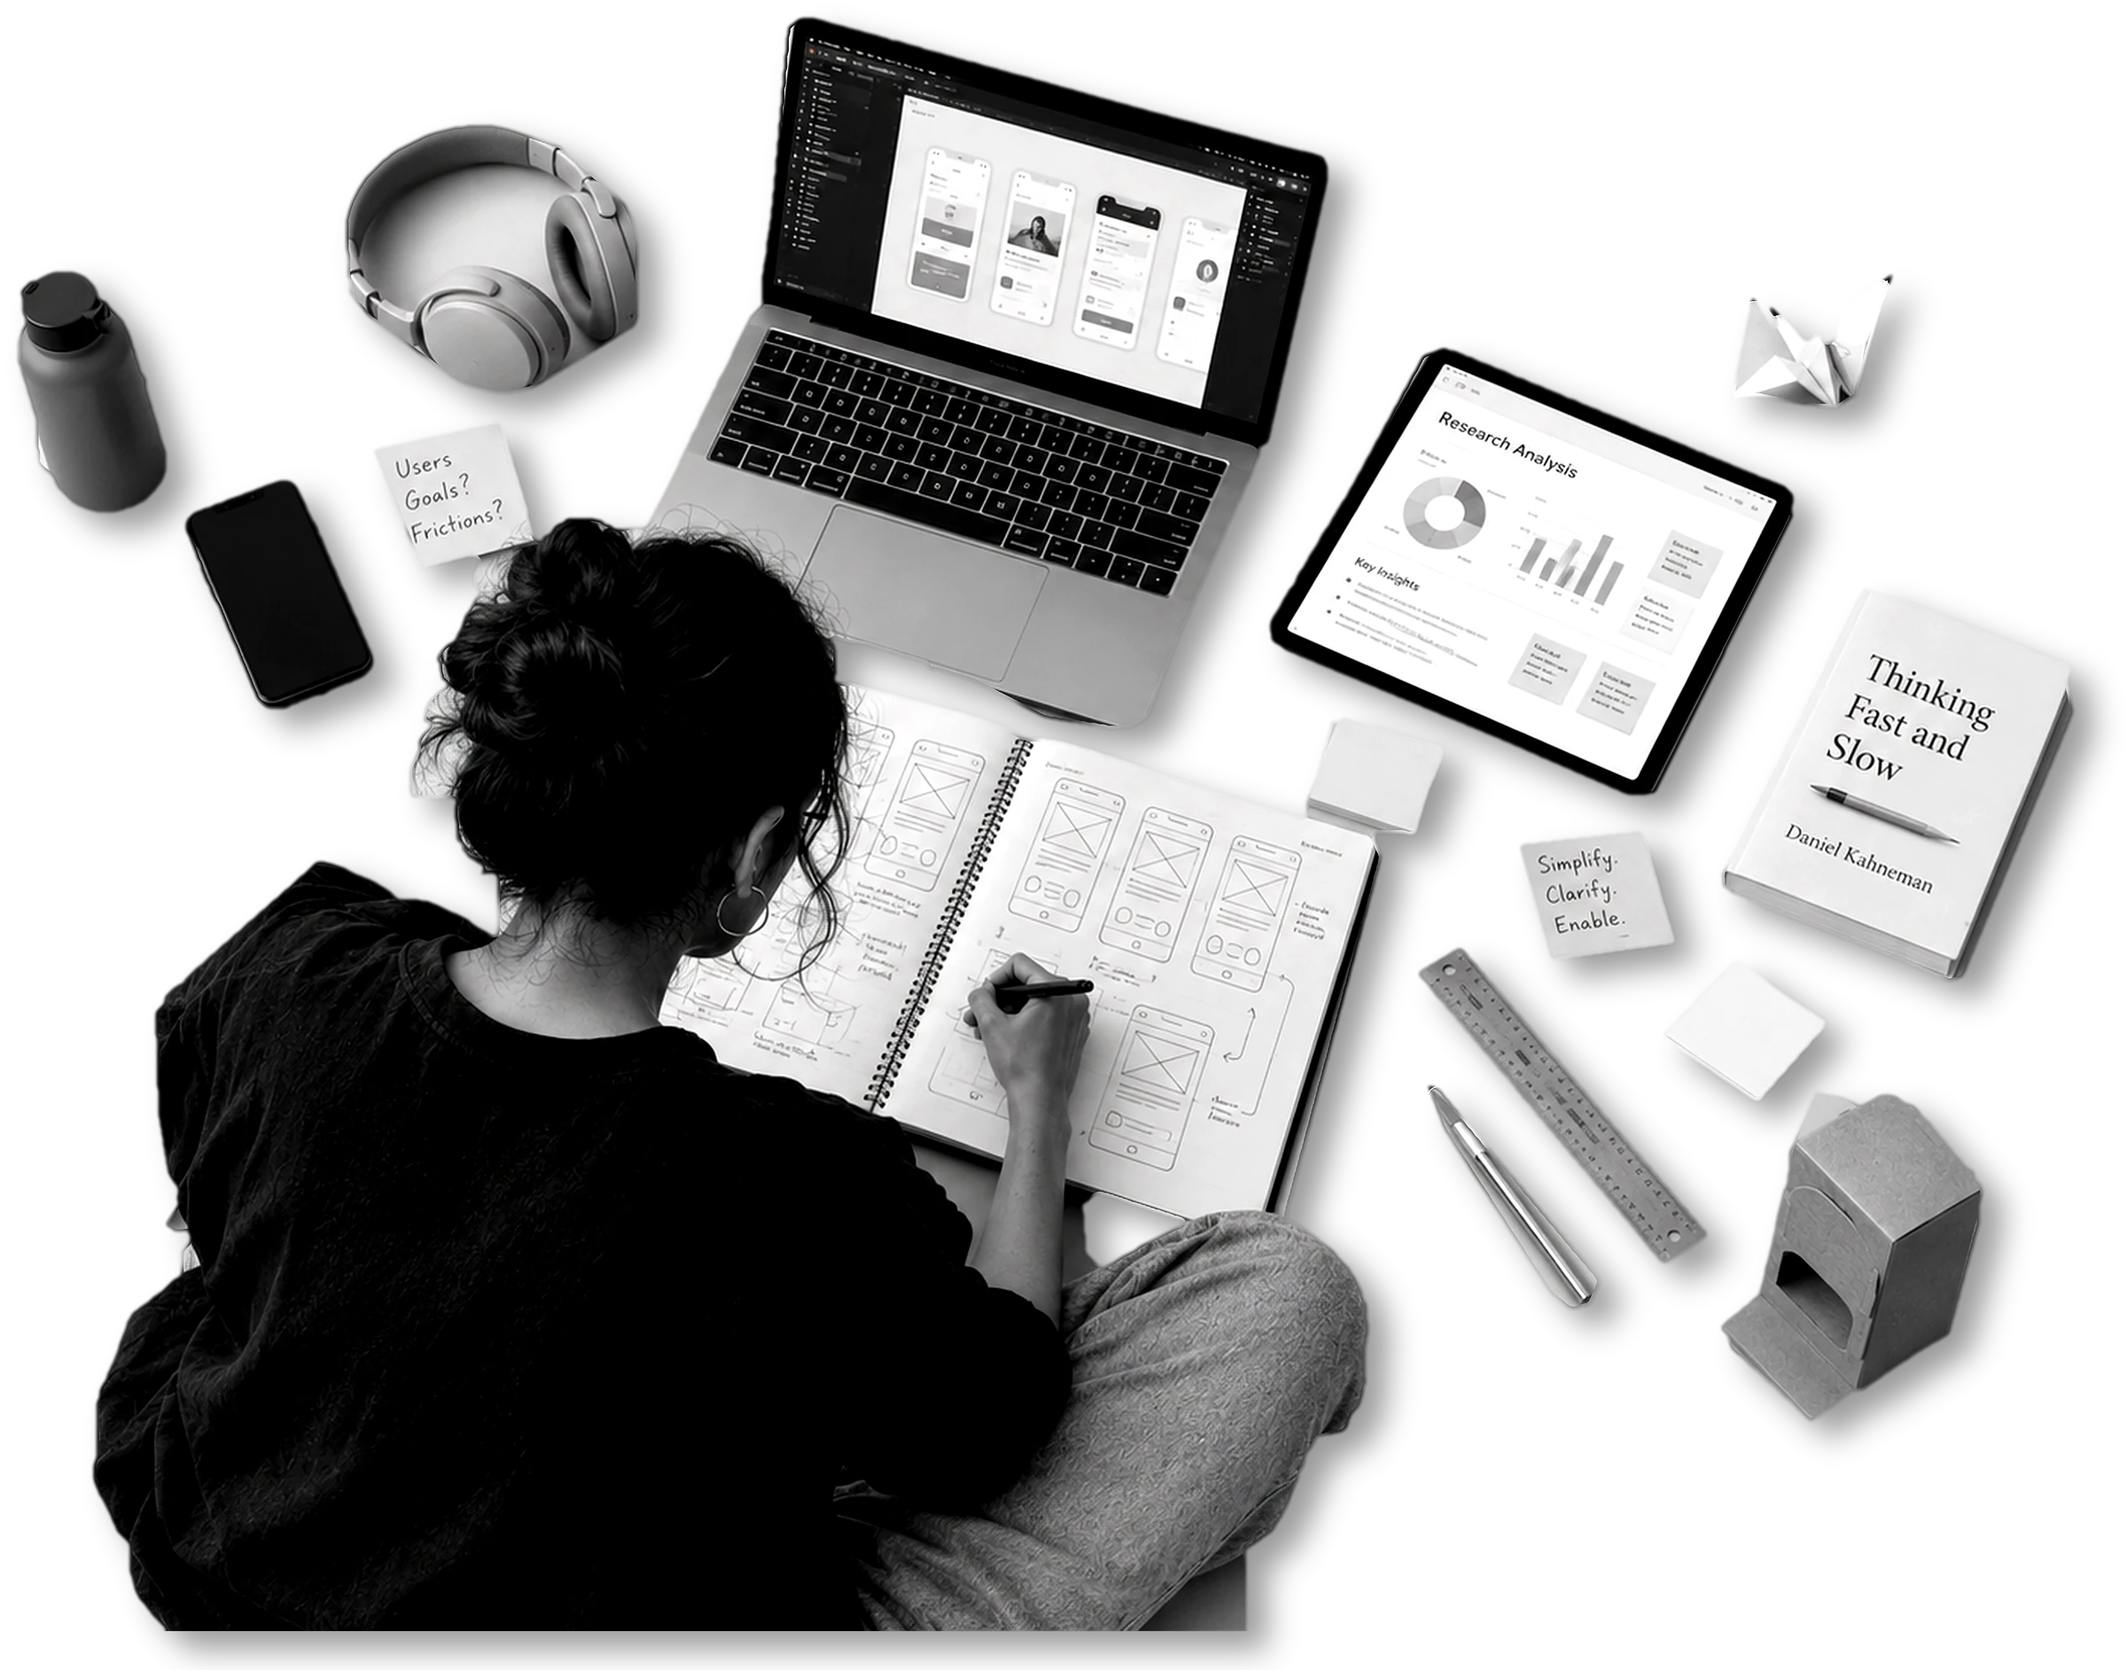
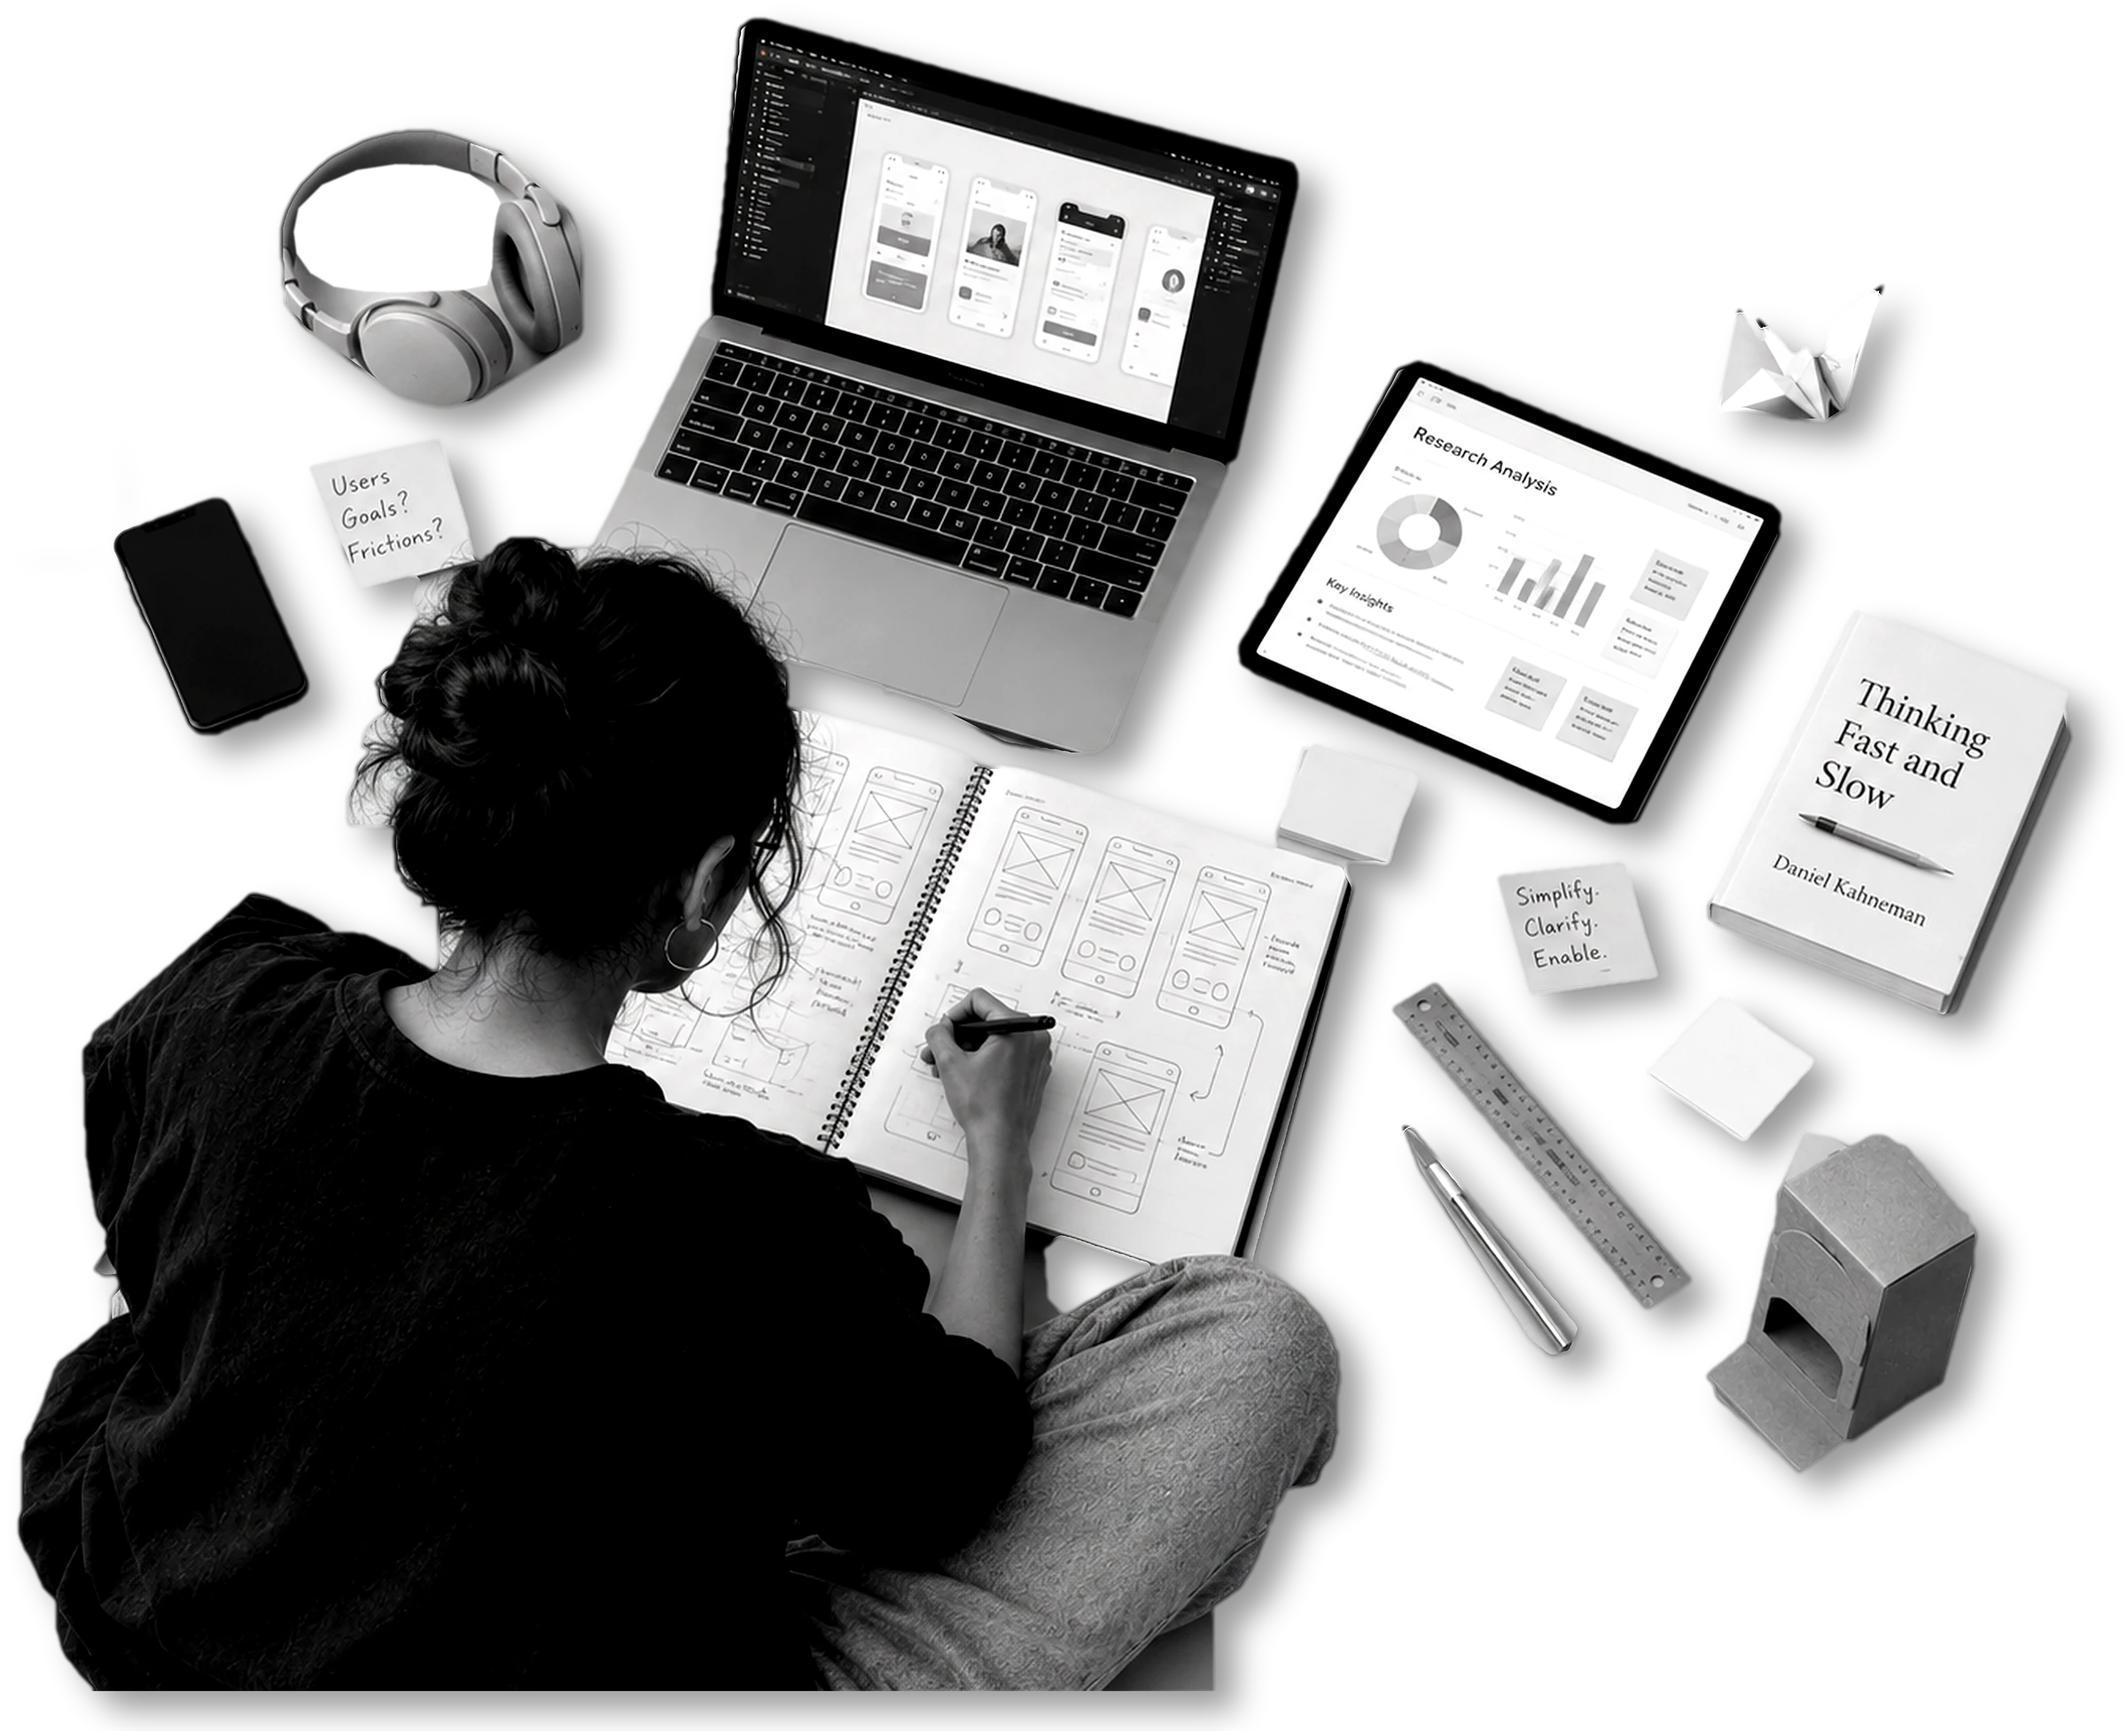
hero: remove bottle and headphone fill, smaller headline, 01 sits on bottom edge

Changed region(s): [[0.0, 0.0, 0.9688, 1.0], [0.8125, 0.1846, 0.9062, 0.2462]]

diff --git a/app/components/Hero.module.css b/app/components/Hero.module.css
@@ -18,8 +18,8 @@
 }
 
 .headline {
-  font-size: clamp(32px, 4.6vw, 72px);
-  font-weight: 400;
+  font-size: clamp(28px, 3.6vw, 56px);
+  font-weight: 700;
   letter-spacing: -0.03em;
   line-height: 1.05;
   max-width: 16ch;
@@ -49,11 +49,11 @@
   line-height: 1.6;
 }
 
-/* Tinted numeral, behind everything, cropped by the bottom edge (ref .big). */
+/* Tinted numeral, behind everything. Its baseline sits on the bottom edge, where the art ends. */
 .big {
   position: absolute;
   right: 3vw;
-  bottom: -4vw;
+  bottom: -0.13em; /* cancels Geist's space under the baseline */
   z-index: 0;
   font-size: clamp(160px, 28vw, 420px);
   font-weight: 800;

diff --git a/app/components/Hero.tsx b/app/components/Hero.tsx
@@ -32,7 +32,7 @@ export default function Hero() {
           src="/hero/workspace-cutout.webp"
           alt=""
           width={2400}
-          height={1885}
+          height={1954}
           quality={90}
           priority
           sizes="(max-width: 767px) 100vw, 640px"
